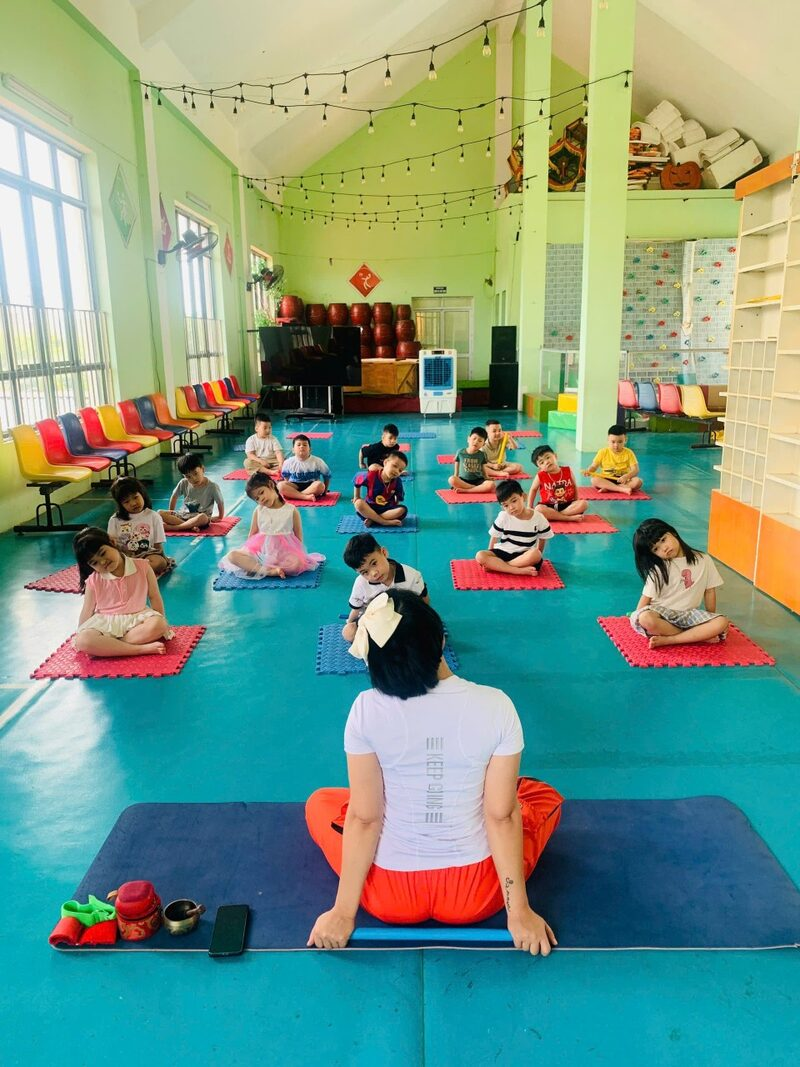
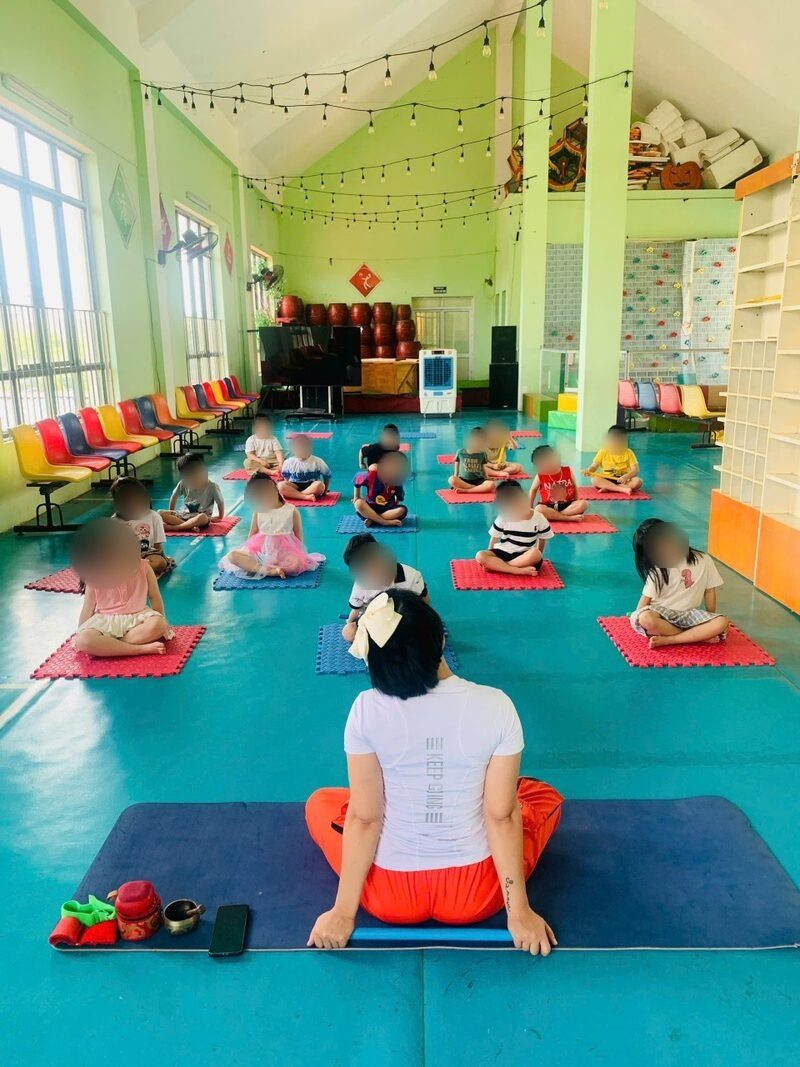
Thêm ảnh lớp học thật, che mặt các bé, thêm mục Đào tạo giáo viên
- Ảnh đầu trang chủ, thẻ lớp Mầm Non và Thiếu Nhi, mục Về Sophia, bài giáo án và liên hệ dùng ảnh thật
- Mặt các bé được che bằng hình mặt cười hoặc làm mờ (kể cả ảnh lớp mầm non cũ)
- Mục mới Đào tạo giáo viên với ảnh tập huấn Happy Kids, Quảng Ninh
- Khoảnh khắc cùng Sophia tăng lên 11 ảnh, xếp so le
- Ảnh được thu nhỏ dưới 250KB, không còn thông tin vị trí

Claude-Session: https://claude.ai/code/session_01FsZGWN6dntkC48XxWBen5q

diff --git a/index.html b/index.html
@@ -24,6 +24,7 @@
       <nav class="main-nav">
         <a href="#lop-hoc">Lớp học</a>
         <a href="#gioi-thieu">Về Sophia</a>
+        <a href="#dao-tao">Đào tạo giáo viên</a>
         <a href="#y-tuong">Ý tưởng bài học</a>
         <a href="#tai-lieu">Tài liệu miễn phí</a>
         <a href="#lien-he" class="btn btn-small btn-pink">Đăng ký học thử</a>
@@ -39,12 +40,18 @@
       <span class="blob blob-teal"></span>
       <span class="blob blob-pink"></span>
       <div class="container hero-inner">
+        <div class="hero-text">
         <p class="hero-kicker">Yoga cho bé từ 3 đến 12 tuổi</p>
         <h1>Mỗi tư thế yoga là<br><span class="rainbow">một chuyến phiêu lưu!</span></h1>
         <p class="hero-sub">Bé vừa vận động, vừa nghe kể chuyện, vừa hát và chơi. Cơ thể khỏe hơn, tâm trí bình yên hơn, và nụ cười thì nhiều hơn.</p>
         <div class="hero-buttons">
           <a href="#lien-he" class="btn btn-blue">Học thử miễn phí</a>
           <a href="#lop-hoc" class="btn btn-light">Xem các lớp học</a>
+        </div>
+        </div>
+        <div class="hero-photo">
+          <img src="images/trang-chu-sophia-va-be.jpg" alt="Cô Sophia tư thế chiến binh, bé trai đứng trên đùi cô giơ cao hai tay trong đường hầm cây xanh Ecopark" width="750" height="1000">
+          <span class="hero-sticker">Lớp học ngoài trời ở Ecopark 🌿</span>
         </div>
       </div>
 
@@ -108,7 +115,7 @@
         <p class="section-sub">Lớp nhỏ, tối đa 10 bé, để cô Sophia quan tâm từng bạn.</p>
         <div class="price-grid">
           <div class="price-card">
-            <div class="price-head bg-yellow">🐣</div>
+            <div class="price-photo"><img src="images/lop-mam-non-bong-tho.jpg" alt="Các bé lớp Mầm Non ngồi trên thảm tập thở với bóng thở" loading="lazy" width="1000" height="750"></div>
             <h3>Mầm Non</h3>
             <p class="age">3 – 5 tuổi</p>
             <p class="price">450.000đ <small>/ tháng</small></p>
@@ -121,7 +128,7 @@
           </div>
           <div class="price-card featured">
             <span class="badge">Được yêu thích nhất</span>
-            <div class="price-head bg-pink">🦋</div>
+            <div class="price-photo"><img src="images/lop-thieu-nhi-con-thuyen.jpg" alt="Hai bé lớp Thiếu Nhi tập đôi tư thế con thuyền" loading="lazy" width="1000" height="750"></div>
             <h3>Thiếu Nhi</h3>
             <p class="age">6 – 9 tuổi</p>
             <p class="price">650.000đ <small>/ tháng</small></p>
@@ -162,17 +169,50 @@
 
     <!-- ===== GIỚI THIỆU SOPHIA ===== -->
     <section id="gioi-thieu" class="about">
+      <div class="about-banner" role="img" aria-label="Cô Sophia tư thế vũ công trên bãi cỏ giữa hàng dừa">
+        <p>“Yoga là món quà để bé lớn lên khỏe mạnh và hạnh phúc.”</p>
+      </div>
       <div class="container about-inner">
         <div class="about-photo">
-          <img src="images/sophia-chan-dung.jpg" alt="Cô Sophia ngồi thiền chắp tay" width="700" height="700">
+          <img src="images/sophia-chan-dung-studio.jpg" alt="Chân dung cô Sophia khoanh tay mỉm cười" width="798" height="800">
+          <img class="about-photo-small" src="images/sophia-cung-be.jpg" alt="Cô Sophia cười cùng một bé gái chắp tay" loading="lazy" width="900" height="675">
         </div>
         <div class="about-text">
           <p class="hero-kicker">Xin chào từ Sophia!</p>
           <h2>Cô giáo yoga của các bé</h2>
           <p>Mình là Sophia, giáo viên yoga trẻ em với nhiều năm đồng hành cùng các bạn nhỏ. Mình tin rằng mỗi đứa trẻ đều có một “siêu năng lực” bên trong, và yoga là cách vui nhất để bé khám phá nó.</p>
-          <p>Bên cạnh các lớp cho bé, Sophia còn đào tạo giáo viên mầm non và giáo viên yoga cách dạy yoga cho trẻ em.</p>
+          <p>Bên cạnh các lớp cho bé, Sophia còn <a href="#dao-tao">đào tạo giáo viên mầm non và giáo viên yoga</a> cách dạy yoga cho trẻ em.</p>
           <p>Ở lớp của Sophia, không có đúng hay sai. Chỉ có tiếng cười, những câu chuyện phiêu lưu, và những hơi thở thật sâu.</p>
           <a href="#lien-he" class="btn btn-blue">Gặp Sophia</a>
+        </div>
+      </div>
+    </section>
+
+    <!-- ===== ĐÀO TẠO GIÁO VIÊN ===== -->
+    <section id="dao-tao" class="training">
+      <div class="container">
+        <h2 class="section-title">Đào tạo <span class="hl-blue">giáo viên yoga trẻ em</span></h2>
+        <p class="section-sub">Sophia chia sẻ phương pháp dạy yoga qua câu chuyện, trò chơi và hơi thở cho giáo viên mầm non và huấn luyện viên yoga.</p>
+        <div class="training-inner">
+          <figure class="training-main">
+            <img src="images/dao-tao-trao-chung-nhan.jpg" alt="Cô Sophia cùng các cô giáo Hệ thống Mầm non Happy Kids cầm giấy chứng nhận sau buổi tập huấn" loading="lazy" width="1400" height="1050">
+          </figure>
+          <div class="training-text">
+            <p class="training-badge">🎓 Đã tập huấn cho giáo viên <b>Hệ thống Mầm non Happy Kids, Quảng Ninh</b> (09/2026)</p>
+            <ul class="training-list">
+              <li>Cách xây dựng giờ yoga 30 đến 45 phút cho bé 3 đến 6 tuổi</li>
+              <li>Kể chuyện bằng tư thế, trò chơi và bài hát</li>
+              <li>Bài tập thở giúp bé bình tĩnh và tập trung</li>
+              <li>Thực hành trực tiếp, cô chỉnh tư thế cho từng học viên</li>
+            </ul>
+            <a href="#lien-he" class="btn btn-blue">Liên hệ mời đào tạo</a>
+          </div>
+        </div>
+        <div class="training-thumbs">
+            <img src="images/dao-tao-chinh-tu-the.jpg" alt="Cô Sophia chỉnh tư thế cho một học viên" loading="lazy" width="900" height="675">
+            <img src="images/dao-tao-ca-lop-tap.jpg" alt="Cả lớp giáo viên tập tư thế chú chó duỗi chân" loading="lazy" width="900" height="675">
+            <img src="images/dao-tao-dan-ca-lop.jpg" alt="Cô Sophia dẫn cả lớp giáo viên đứng tập" loading="lazy" width="900" height="675">
+            <img src="images/dao-tao-huong-dan-rieng.jpg" alt="Cô Sophia hướng dẫn riêng từng học viên" loading="lazy" width="675" height="900">
         </div>
       </div>
     </section>
@@ -183,11 +223,43 @@
         <h2 class="section-title">Khoảnh khắc <span class="hl-pink">cùng Sophia</span></h2>
         <p class="section-sub">Những giờ học thật vui, thật bình yên của các bạn nhỏ.</p>
         <div class="gallery-grid">
-          <figure class="g-wide">
-            <img src="images/sophia-ke-chuyen.jpg" alt="Cô Sophia kể chuyện chú chim đỏ cho các bé ngoài trời" loading="lazy" width="1000" height="751">
-            <figcaption>Yoga kể chuyện ngoài trời</figcaption>
+          <figure>
+            <img src="images/lop-tap-doi-ecopark.jpg" alt="Các cặp bé nắm tay kéo giãn dưới vòm cây Ecopark" loading="lazy" width="750" height="1000">
+            <figcaption>Tập đôi dưới vòm cây</figcaption>
           </figure>
-          <figure class="g-tall">
+          <figure>
+            <img src="images/sophia-nang-be-bay.jpg" alt="Cô Sophia nằm ngửa nâng bé bay như máy bay" loading="lazy" width="750" height="1000">
+            <figcaption>Bay như máy bay ✈</figcaption>
+          </figure>
+          <figure>
+            <img src="images/lop-mam-non-cuoi.jpg" alt="Các bé mầm non cười vui với bóng thở" loading="lazy" width="1000" height="750">
+            <figcaption>Bóng thở vui nhộn</figcaption>
+          </figure>
+          <figure>
+            <img src="images/be-tu-the-cai-cay.jpg" alt="Bé trai đứng tư thế cái cây" loading="lazy" width="750" height="1000">
+            <figcaption>Tư thế cái cây 🌳</figcaption>
+          </figure>
+          <figure>
+            <img src="images/sophia-cay-cau.jpg" alt="Cô Sophia làm cây cầu, bé cuộn tròn bên dưới" loading="lazy" width="750" height="1000">
+            <figcaption>Cây cầu và chú rùa nhỏ</figcaption>
+          </figure>
+          <figure>
+            <img src="images/hai-be-tu-the-em-be.jpg" alt="Hai bé gái tư thế em bé, đầu chạm nhau" loading="lazy" width="1000" height="750">
+            <figcaption>Tư thế em bé</figcaption>
+          </figure>
+          <figure>
+            <img src="images/lop-ngoi-thien-duong-ham.jpg" alt="Cả lớp ngồi thiền trên thảm dọc đường hầm cây" loading="lazy" width="1000" height="750">
+            <figcaption>Ngồi thiền ngoài trời</figcaption>
+          </figure>
+          <figure>
+            <img src="images/sophia-ke-chuyen.jpg" alt="Cô Sophia kể chuyện chú chim đỏ cho các bé ngoài trời" loading="lazy" width="1000" height="751">
+            <figcaption>Yoga kể chuyện</figcaption>
+          </figure>
+          <figure>
+            <img src="images/lop-tu-the-em-be.jpg" alt="Cả lớp cúi người tư thế em bé" loading="lazy" width="750" height="1000">
+            <figcaption>Cả lớp thư giãn</figcaption>
+          </figure>
+          <figure>
             <img src="images/lop-hoc-mam-non.jpg" alt="Các bé mầm non ngồi thiền trên thảm cùng cô Sophia" loading="lazy" width="800" height="1067">
             <figcaption>Lớp yoga mầm non</figcaption>
           </figure>
@@ -196,6 +268,7 @@
             <figcaption>Sophia và tư thế nàng tiên cá</figcaption>
           </figure>
         </div>
+        <p class="note">Để bảo vệ các bé, khuôn mặt trong ảnh được che bằng hình mặt cười.</p>
       </div>
     </section>
 
@@ -217,7 +290,7 @@
 
         <div class="post-grid">
           <article class="post" data-cat="truyen">
-            <div class="post-img c-green">🐢</div>
+            <img class="post-photo" src="images/bai-rua-con.jpg" alt="Cả lớp cúi người tư thế em bé như những chú rùa con" loading="lazy" width="750" height="1000">
             <div class="post-body">
               <span class="tag">Câu chuyện</span>
               <h3><a href="bai-rua-con-di-tim-bien.html">Chú rùa con đi tìm biển: giáo án yoga 30 phút</a></h3>
@@ -233,7 +306,7 @@
             </div>
           </article>
           <article class="post" data-cat="tu-the">
-            <div class="post-img c-pink">🦩</div>
+            <img class="post-photo" src="images/bai-tu-the-dong-vat.jpg" alt="Bé ngồi trên lưng cô Sophia trong tư thế cái bàn" loading="lazy" width="1000" height="750">
             <div class="post-body">
               <span class="tag">Tư thế</span>
               <h3><a href="bai-10-tu-the-dong-vat.html">10 tư thế động vật dễ nhất cho bé 3 tuổi</a></h3>
@@ -257,7 +330,7 @@
             </div>
           </article>
           <article class="post" data-cat="chanh-niem">
-            <div class="post-img c-purple">🎈</div>
+            <img class="post-photo" src="images/bai-hoi-tho-bong-bong.jpg" alt="Bé gái cười vui cầm bóng thở" loading="lazy" width="1000" height="750">
             <div class="post-body">
               <span class="tag">Chánh niệm</span>
               <h3><a href="bai-hoi-tho-bong-bong.html">Hơi thở bong bóng: giúp bé bình tĩnh trong 1 phút</a></h3>
@@ -306,6 +379,10 @@
             <li>✉ <a href="mailto:hello@sophiayogakids.com">hello@sophiayogakids.com</a></li>
             <li>📍 <a href="https://www.google.com/maps/search/?api=1&query=Lighthouse+Ecopark+H%E1%BA%A3i+D%C6%B0%C6%A1ng" target="_blank" rel="noopener">Tòa Lighthouse, Ecopark, phường Tân Hưng, TP. Hải Phòng</a><br><small>(Ecopark Hải Tân, TP. Hải Dương cũ)</small></li>
           </ul>
+          <figure class="contact-photo">
+            <img src="images/lop-hoc-ecopark.jpg" alt="Lớp yoga ngoài trời của các bé dưới vòm cây xanh Ecopark" loading="lazy" width="1000" height="750">
+            <figcaption>Lớp học ngoài trời, giữa cây xanh Ecopark</figcaption>
+          </figure>
         </div>
         <form class="contact-form" id="signup-form">
           <label>Tên bố/mẹ
@@ -354,6 +431,7 @@
         <a href="#lop-hoc">Mầm Non (3–5 tuổi)</a>
         <a href="#lop-hoc">Thiếu Nhi (6–9 tuổi)</a>
         <a href="#lop-hoc">Online tại nhà</a>
+        <a href="#dao-tao">Đào tạo giáo viên</a>
       </div>
       <div>
         <h4>Ý tưởng bài học</h4>

diff --git a/css/style.css b/css/style.css
@@ -28,7 +28,7 @@ body {
   line-height: 1.6;
   overflow-x: hidden;
 }
-img { max-width: 100%; display: block; }
+img { max-width: 100%; height: auto; display: block; }
 a { color: inherit; }
 h1, h2, h3, h4 { font-family: "Baloo 2", "Nunito", sans-serif; line-height: 1.15; margin: 0 0 .5em; }
 .container { width: min(1160px, 100% - 32px); margin-inline: auto; }
@@ -274,6 +274,7 @@ section { padding: 90px 0; }
 /* ---------- Trang bài viết ---------- */
 .article { max-width: 760px; margin: 0 auto; padding: 60px 0 80px; }
 .article h1 { font-size: clamp(2rem, 5vw, 3rem); font-weight: 800; }
+.article-photo { width: 100%; max-height: 520px; object-fit: cover; border-radius: var(--radius); margin: 24px 0; box-shadow: var(--shadow); }
 .article .post-img { border-radius: var(--radius); height: 260px; margin: 24px 0; font-size: 7rem; }
 .article h2 { font-size: 1.7rem; margin-top: 1.6em; color: var(--blue); }
 .article p, .article li { font-size: 1.1rem; }
@@ -310,11 +311,13 @@ section { padding: 90px 0; }
 }
 
 /* ---------- Khoảnh khắc lớp học (ảnh) ---------- */
-.gallery-grid {
-  display: grid; grid-template-columns: 1.4fr 1fr; grid-template-rows: auto auto; gap: 22px;
+/* Ảnh tự xếp thành 3 cột so le, giữ đúng tỉ lệ ảnh */
+.gallery-grid { columns: 3 260px; column-gap: 22px; }
+.gallery figure {
+  margin: 0 0 22px; position: relative; break-inside: avoid;
+  border-radius: var(--radius); overflow: hidden; box-shadow: var(--shadow); border: 6px solid #fff;
 }
-.gallery figure { margin: 0; position: relative; border-radius: var(--radius); overflow: hidden; box-shadow: var(--shadow); border: 6px solid #fff; }
-.gallery img { width: 100%; height: 100%; object-fit: cover; transition: transform .4s; }
+.gallery img { width: 100%; height: auto; transition: transform .4s; }
 .gallery figure:hover img { transform: scale(1.04); }
 .gallery figcaption {
   position: absolute; left: 14px; bottom: 14px;
@@ -322,12 +325,82 @@ section { padding: 90px 0; }
   font-family: "Baloo 2", sans-serif; font-weight: 700;
   padding: .3em 1em; border-radius: 999px;
 }
-.g-tall { grid-row: span 2; grid-column: 2; }
-.g-wide { aspect-ratio: 4/3; }
-.gallery figure:not(.g-wide):not(.g-tall) { aspect-ratio: 4/3; }
-.gallery figure:not(.g-wide):not(.g-tall) img { object-position: center top; }
-@media (max-width: 760px) {
-  .gallery-grid { grid-template-columns: 1fr; }
-  .g-tall { grid-row: auto; grid-column: auto; aspect-ratio: 3/4; }
-}
 .footer-addr { display: block; margin: 8px 0; }
+
+/* ---------- Ảnh đầu trang chủ ---------- */
+.hero-inner { display: grid; grid-template-columns: 1.15fr .85fr; gap: 48px; align-items: center; text-align: left; }
+.hero-inner .hero-sub { margin-left: 0; }
+.hero-inner .hero-buttons { justify-content: flex-start; }
+.hero-photo { position: relative; max-width: 440px; justify-self: center; width: 100%; }
+.hero-photo img {
+  width: 100%; aspect-ratio: 4/5; object-fit: cover; object-position: center 30%;
+  border-radius: 999px 999px 36px 36px;
+  border: 8px solid #fff; box-shadow: var(--shadow);
+}
+.hero-sticker {
+  position: absolute; left: -10px; bottom: 28px;
+  background: var(--yellow); color: var(--ink);
+  font-family: "Baloo 2", sans-serif; font-weight: 700;
+  padding: .45em 1.1em; border-radius: 999px; box-shadow: var(--shadow);
+  transform: rotate(-4deg);
+}
+
+/* ---------- Ảnh thẻ lớp học ---------- */
+.price-photo { margin: -34px -28px 18px; aspect-ratio: 4/3; overflow: hidden; border-radius: var(--radius) var(--radius) 0 0; }
+.price-photo img { width: 100%; height: 100%; object-fit: cover; }
+.price-card.featured .price-photo { margin-top: -34px; }
+
+/* ---------- Về Sophia ---------- */
+.about { padding-top: 0; }
+.about-banner {
+  height: 320px; margin-bottom: 70px;
+  background: linear-gradient(90deg, rgba(45,42,74,.55), rgba(45,42,74,0) 60%), url("../images/sophia-tu-the-vu-cong.jpg") center 35% / cover;
+  display: flex; align-items: flex-end;
+}
+.about-banner p {
+  width: min(1160px, 100% - 32px); margin: 0 auto 36px;
+  color: #fff; font-family: "Baloo 2", sans-serif; font-weight: 700;
+  font-size: clamp(1.3rem, 3vw, 2rem); max-width: 1160px; text-shadow: 0 2px 10px rgba(0,0,0,.35);
+}
+.about-photo { position: relative; }
+.about-photo-small {
+  position: absolute; right: -14px; bottom: -24px; width: 46%;
+  border-radius: 20px !important; border: 6px solid #fff !important;
+  transform: rotate(4deg);
+}
+
+/* ---------- Đào tạo giáo viên ---------- */
+.training { background: #f3efff; }
+.training-inner { display: grid; grid-template-columns: 1.2fr 1fr; gap: 48px; align-items: center; margin-top: 36px; }
+.training-main { margin: 0; }
+.training-main img { width: 100%; border-radius: var(--radius); border: 6px solid #fff; box-shadow: var(--shadow); }
+.training-badge { background: #fff; border-left: 6px solid var(--purple); padding: 14px 18px; border-radius: 14px; font-size: 1.08rem; }
+.training-list { list-style: none; padding: 0; margin: 0 0 26px; }
+.training-list li { padding: 8px 0 8px 30px; position: relative; color: var(--muted); }
+.training-list li::before { content: "✓"; position: absolute; left: 4px; color: var(--purple); font-weight: 800; }
+.training-thumbs { display: grid; grid-template-columns: repeat(4, 1fr); gap: 18px; margin-top: 36px; }
+.training-thumbs img { width: 100%; aspect-ratio: 4/3; object-fit: cover; border-radius: 18px; border: 5px solid #fff; box-shadow: var(--shadow); }
+
+/* ---------- Bài viết có ảnh ---------- */
+.post-photo { width: 100%; height: 170px; object-fit: cover; object-position: center 25%; }
+
+/* ---------- Ảnh liên hệ ---------- */
+.contact-photo { position: relative; margin: 24px 0 0; border-radius: var(--radius); overflow: hidden; box-shadow: var(--shadow); border: 6px solid #fff; }
+.contact-photo img { width: 100%; aspect-ratio: 16/10; object-fit: cover; }
+.contact-photo figcaption {
+  position: absolute; left: 12px; bottom: 12px; background: rgba(255,255,255,.92);
+  font-family: "Baloo 2", sans-serif; font-weight: 700; padding: .25em .9em; border-radius: 999px; font-size: .95rem;
+}
+
+@media (max-width: 960px) {
+  .training-thumbs { grid-template-columns: repeat(2, 1fr); }
+}
+@media (max-width: 760px) {
+  .hero-inner, .training-inner { grid-template-columns: 1fr; gap: 32px; }
+  .hero-inner { text-align: center; }
+  .hero-inner .hero-sub { margin-left: auto; }
+  .hero-inner .hero-buttons { justify-content: center; }
+  .hero-photo { max-width: 360px; margin: 0 auto; }
+  .about-banner { height: 220px; margin-bottom: 48px; }
+  .about-photo-small { right: -8px; bottom: -18px; }
+}

diff --git a/bai-10-tu-the-dong-vat.html b/bai-10-tu-the-dong-vat.html
@@ -32,7 +32,7 @@
     <a href="index.html#y-tuong" class="back-link">← Quay lại Ý tưởng bài học</a>
     <p><span class="tag">Tư thế</span></p>
     <h1>10 tư thế động vật dễ nhất cho bé 3 tuổi</h1>
-    <div class="post-img c-pink">🦩</div>
+    <img class="article-photo" src="images/bai-tu-the-dong-vat.jpg" alt="Bé ngồi trên lưng cô Sophia trong tư thế cái bàn" width="1000" height="750">
     <p>Bé 3 tuổi học nhanh nhất khi được bắt chước con vật. Mỗi tư thế giữ 3 đến 5 hơi thở, kèm tiếng kêu cho vui!</p>
     <h2>Danh sách tư thế</h2>
     <ol>

diff --git a/bai-hoi-tho-bong-bong.html b/bai-hoi-tho-bong-bong.html
@@ -32,7 +32,7 @@
     <a href="index.html#y-tuong" class="back-link">← Quay lại Ý tưởng bài học</a>
     <p><span class="tag">Chánh niệm</span></p>
     <h1>Hơi thở bong bóng: giúp bé bình tĩnh trong 1 phút</h1>
-    <div class="post-img c-purple">🎈</div>
+    <img class="article-photo" src="images/bai-hoi-tho-bong-bong.jpg" alt="Bé gái cười vui cầm bóng thở" width="1000" height="750">
     <p>Khi bé buồn hay tức giận, hơi thở là “nút bình tĩnh” bé luôn mang theo bên mình.</p>
     <h2>Cách làm</h2>
     <ol>

diff --git a/bai-rua-con-di-tim-bien.html b/bai-rua-con-di-tim-bien.html
@@ -32,7 +32,7 @@
     <a href="index.html#y-tuong" class="back-link">← Quay lại Ý tưởng bài học</a>
     <p><span class="tag">Câu chuyện</span></p>
     <h1>Chú rùa con đi tìm biển: giáo án yoga 30 phút</h1>
-        <div class="post-img c-green">🐢</div>
+    <img class="article-photo" src="images/bai-rua-con.jpg" alt="Cả lớp cúi người tư thế em bé như những chú rùa con" width="750" height="1000">
 
     <h2>Chuẩn bị</h2>
     <ul>
